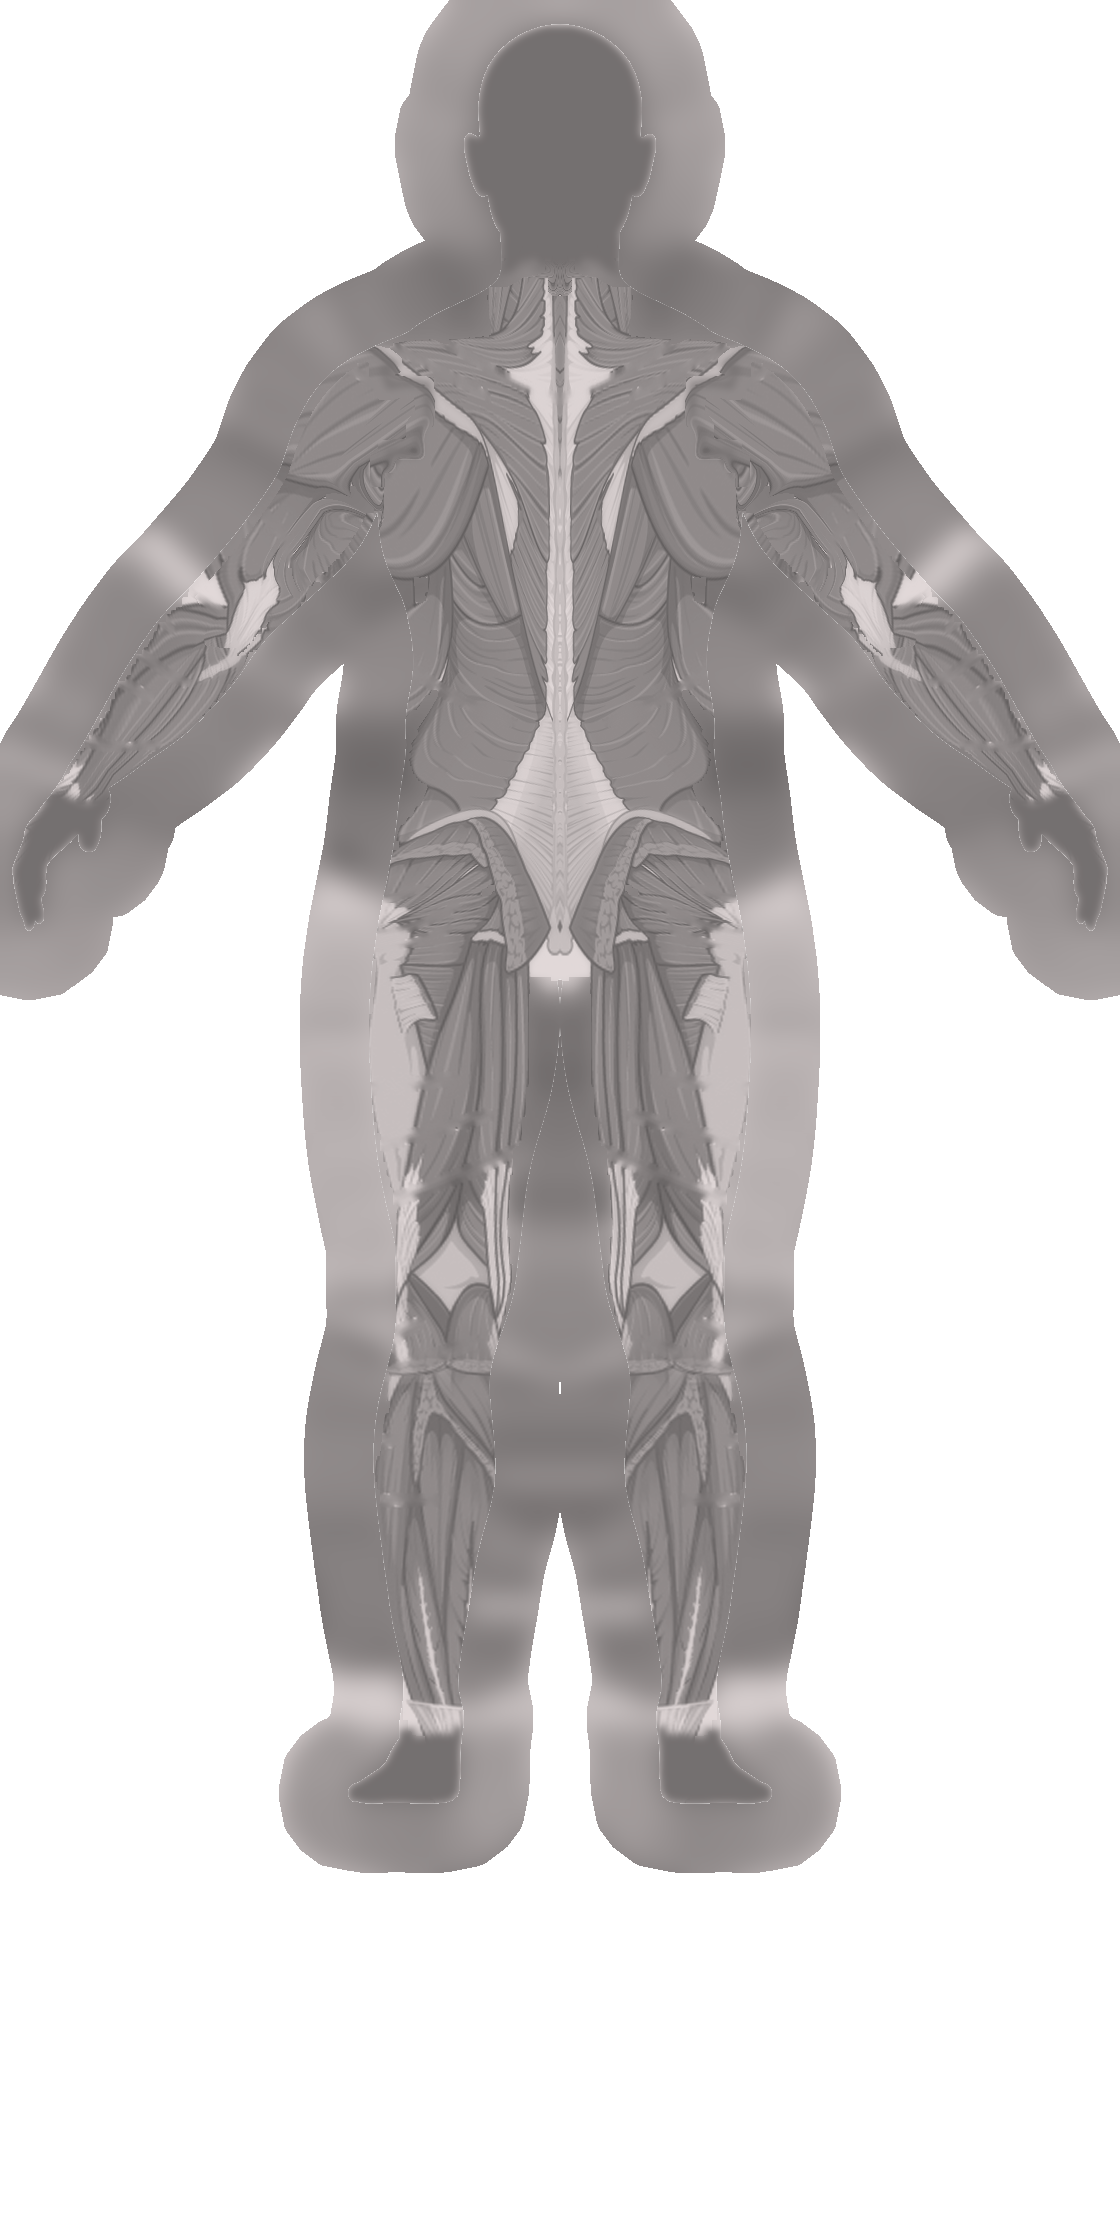
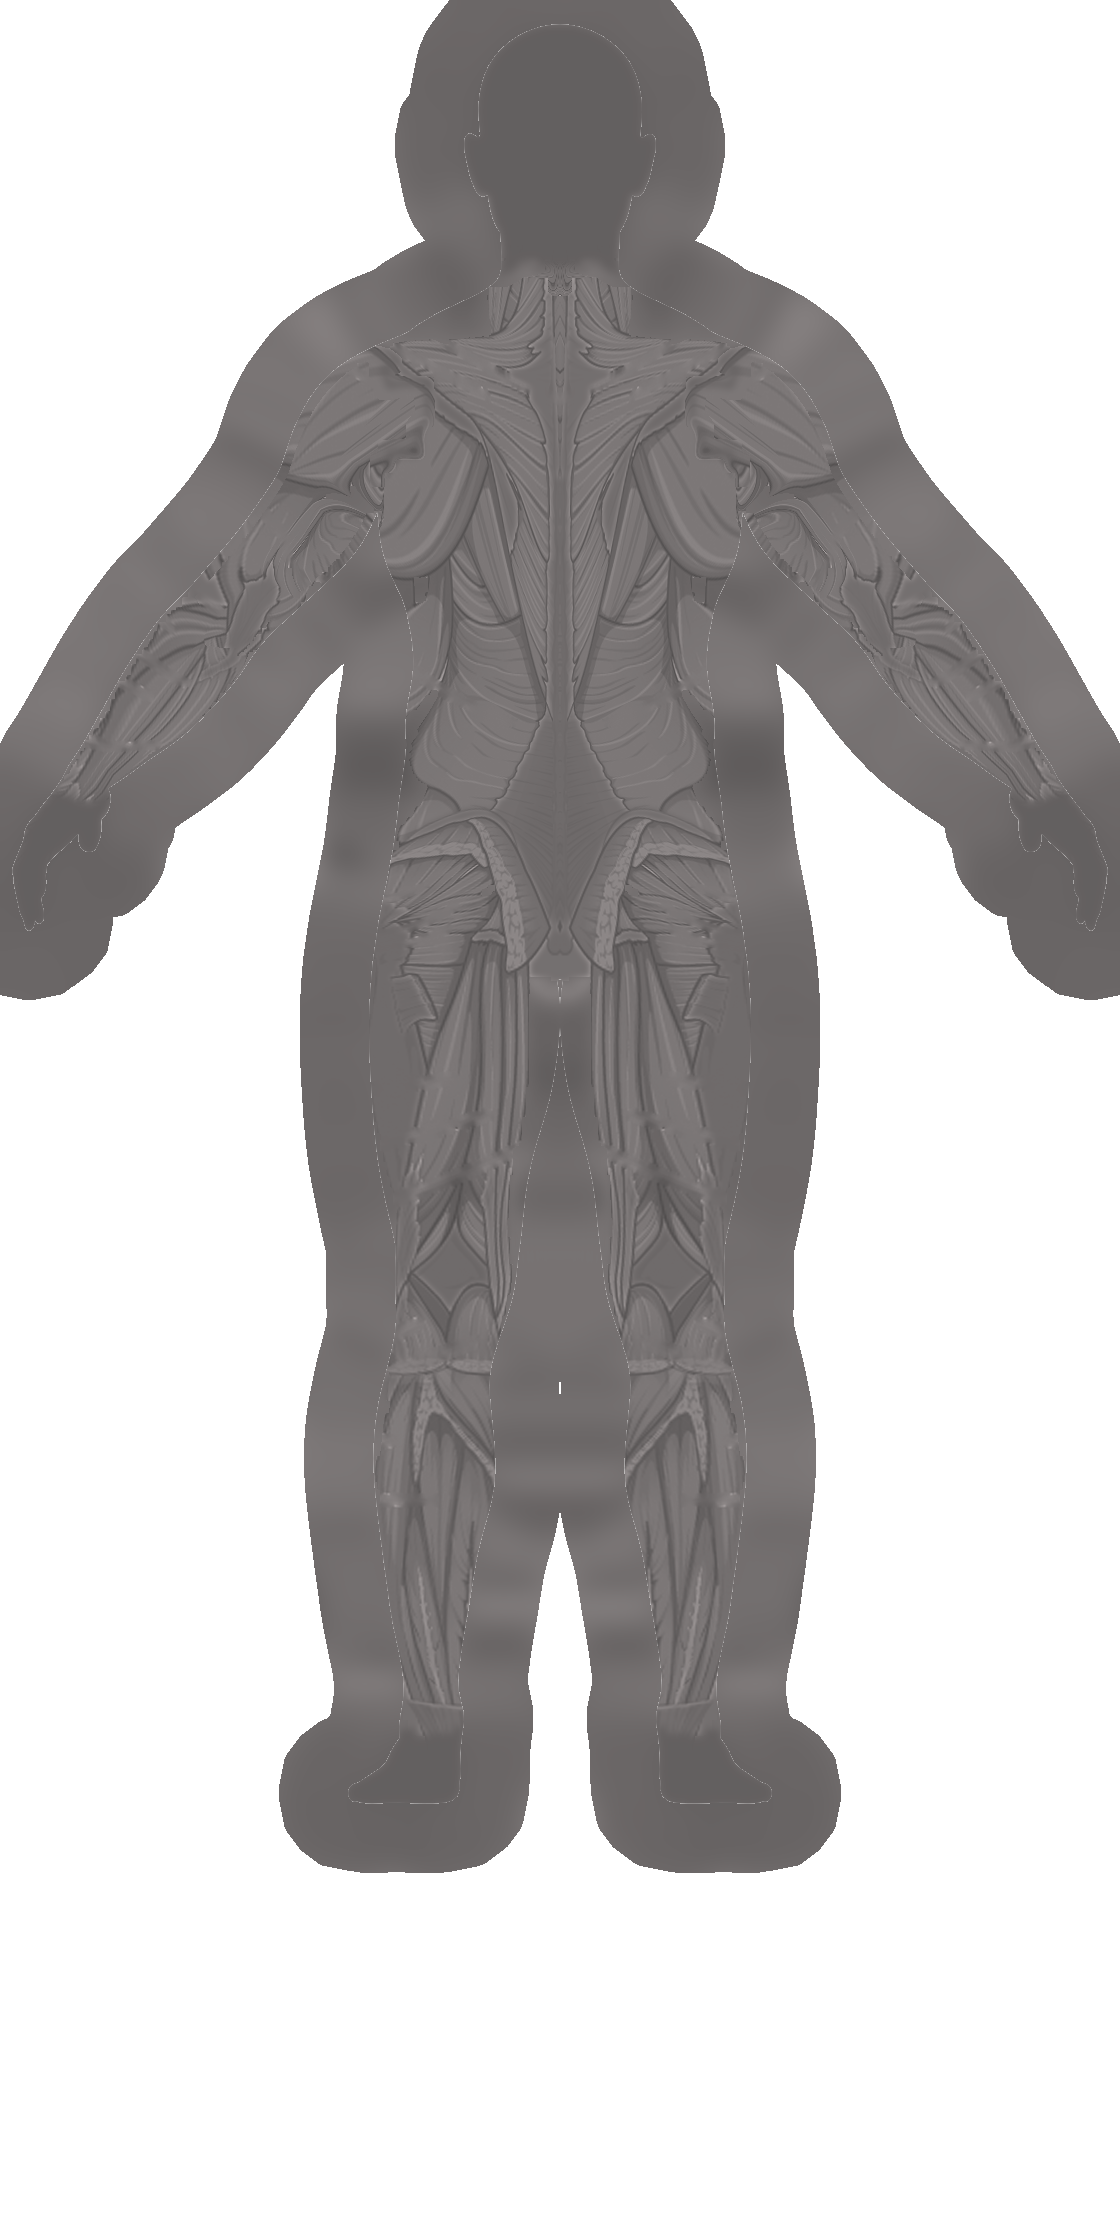
3D body: finished look — relief, quiet rested muscles, studio light
- Muscles have real relief: the fibre shading is bump-mapped through
  screen-space derivatives, with a satin sheen, so the figure reads as
  sculpted instead of a printed decal.
- Rested ("fresh") muscles are a quiet wash, not a pink suit; recovering,
  working and selected muscles stand out against them.
- Graphite base: muscle a mid grey with its fibres, tendons and fascia a
  quieter grey (bright white tendons fought every highlight).
- Studio lighting (key, fill, two rims) and a soft pool of light under the
  feet, camera a touch above; the figure stands instead of floating.

diff --git a/GymTracker/BodyDiagramView.swift b/GymTracker/BodyDiagramView.swift
@@ -485,7 +485,9 @@ struct BodyFigureView: View {
     /// What colours each muscle gets, in drawing order (later wins).
     private var palette: [MuscleID: BodyTint] {
         var p: [MuscleID: BodyTint] = [:]
-        for id in recoveryIDs(.fresh) { p[id] = BodyTint(color: Self.freshColor, strength: 1) }
+        // Fresh (recovered) is a quiet wash: the body isn't a pink suit on a
+        // rest day, and recovering / working muscles stand out against it.
+        for id in recoveryIDs(.fresh) { p[id] = BodyTint(color: Self.freshColor, strength: 0.32) }
         for id in recoveryIDs(.recovering) { p[id] = BodyTint(color: Self.recoveringColor, strength: 1) }
         for id in injuredOnly { p[id] = BodyTint(color: Self.litGlow, strength: 1) }
         let lit = litColor ?? Self.litGlow
@@ -1472,12 +1474,23 @@ final class BodyModel {
     texture2d<float> bodyShade;
     texture2d<float> bodyPalette;
     #pragma body
-    // The four area texels around this point, each looked up in the
-    // palette and blended like a linear filter: smooth edges on every lit
-    // muscle instead of texel steps (a plain nearest lookup was jagged).
     constexpr sampler gatherS(filter::nearest, address::clamp_to_edge);
     constexpr sampler linearS(filter::linear, mip_filter::linear, address::clamp_to_edge);
     float2 uv = _surface.diffuseTexcoord;
+    float shade = bodyShade.sample(linearS, uv).r;
+    // Relief: the fibre shading used as a height, bump-mapped through
+    // screen-space derivatives (no tangents needed). Muscles get grooves
+    // between fibres and catch the light like a sculpted figure.
+    float3 n = normalize(_surface.normal);
+    float3 dpdx = dfdx(_surface.position), dpdy = dfdy(_surface.position);
+    float dhdx = dfdx(shade), dhdy = dfdy(shade);
+    float3 r1 = cross(dpdy, n), r2 = cross(n, dpdx);
+    float det = dot(dpdx, r1);
+    float3 grad = sign(det) * (dhdx * r1 + dhdy * r2);
+    float bump = 0.010;
+    _surface.normal = normalize(abs(det) * n - bump * grad);
+    // The four area texels around this point, each looked up in the
+    // palette and blended like a linear filter: smooth edges.
     float2 size = float2(bodyIDs.get_width(), bodyIDs.get_height());
     float2 f = fract(uv * size - 0.5);
     float4 ids = bodyIDs.gather(gatherS, uv) * 255.0;
@@ -1491,14 +1504,13 @@ final class BodyModel {
         a += t.a * w[k];
     }
     if (a > 0.002) {
-        float3 tint = rgb / a;
-        float shade = bodyShade.sample(linearS, uv).r;
-        // Squared shade: the fibres and the lines between muscles stay
-        // visible instead of one flat block of colour.
-        float3 lit = tint * (0.08 + 1.05 * shade * shade);
+        float3 tint = rgb / max(a, 0.001);
+        // The colour keeps the muscle's own light and dark (fibres stay
+        // visible), deeper in the grooves.
+        float3 lit = tint * (0.18 + 0.9 * shade);
         _surface.diffuse.rgb = mix(_surface.diffuse.rgb, lit, a);
-        // The accent's glow: bright enough for the camera's bloom.
-        _surface.emission.rgb += lit * 0.4 * a;
+        // A gentle inner glow, only on strongly lit muscles.
+        _surface.emission.rgb += lit * 0.22 * a * a;
     }
     """
 }
@@ -1550,7 +1562,10 @@ final class BodySceneView: SCNView, UIGestureRecognizerDelegate {
 
         if let geometry = model.geometry?.copy() as? SCNGeometry {
             let m = SCNMaterial()
-            m.lightingModel = .lambert
+            // A soft satin sheen: reads as a sculpted figure, not a decal.
+            m.lightingModel = .blinn
+            m.specular.contents = UIColor(white: 0.22, alpha: 1)
+            m.shininess = 0.22
             m.diffuse.contents = model.colorTexture
             m.diffuse.mipFilter = .linear
             m.shaderModifiers = [.surface: BodyModel.shader]
@@ -1581,9 +1596,28 @@ final class BodySceneView: SCNView, UIGestureRecognizerDelegate {
             let n = SCNNode(); n.light = l; n.eulerAngles = euler
             scene.rootNode.addChildNode(n)
         }
-        light(.ambient, 380, SCNVector3Zero)
-        light(.directional, 900, SCNVector3(-0.35, 0.45, 0))      // key, above right
-        light(.directional, 650, SCNVector3(0.1, .pi + 0.5, 0))  // rim from behind: the outline holds on black
+        // Studio lighting: key above right, cool fill left, two rims from
+        // behind so the silhouette holds on black.
+        light(.ambient, 260, SCNVector3Zero)
+        light(.directional, 950, SCNVector3(-0.45, 0.5, 0))
+        light(.directional, 300, SCNVector3(-0.1, -0.6, 0))
+        light(.directional, 700, SCNVector3(0.15, .pi + 0.7, 0))
+        light(.directional, 700, SCNVector3(0.15, .pi - 0.7, 0))
+
+        // A soft pool of light on the floor under the feet: the figure
+        // stands somewhere instead of floating on black.
+        let floor = SCNPlane(width: 1.1, height: 0.42)
+        let fm = SCNMaterial()
+        fm.lightingModel = .constant
+        fm.diffuse.contents = Self.floorGlow
+        fm.writesToDepthBuffer = false
+        fm.isDoubleSided = true
+        floor.materials = [fm]
+        let floorNode = SCNNode(geometry: floor)
+        floorNode.eulerAngles.x = -.pi / 2
+        floorNode.position = SCNVector3(0, -1.0, 0.02)
+        floorNode.renderingOrder = -1
+        scene.rootNode.addChildNode(floorNode)
 
         let pan = UIPanGestureRecognizer(target: self, action: #selector(panned(_:)))
         pan.delegate = self
@@ -1593,6 +1627,18 @@ final class BodySceneView: SCNView, UIGestureRecognizerDelegate {
 
     required init?(coder: NSCoder) { fatalError("init(coder:) has not been implemented") }
 
+    /// Radial glow for the floor: white at the centre fading to nothing.
+    private static let floorGlow: UIImage = {
+        let size = CGSize(width: 256, height: 256)
+        return UIGraphicsImageRenderer(size: size).image { ctx in
+            let colors = [UIColor(white: 1, alpha: 0.13).cgColor, UIColor(white: 1, alpha: 0.035).cgColor,
+                          UIColor(white: 1, alpha: 0).cgColor] as CFArray
+            let g = CGGradient(colorsSpace: CGColorSpaceCreateDeviceRGB(), colors: colors, locations: [0, 0.45, 1])!
+            ctx.cgContext.drawRadialGradient(g, startCenter: CGPoint(x: 128, y: 128), startRadius: 0,
+                                             endCenter: CGPoint(x: 128, y: 128), endRadius: 128, options: [])
+        }
+    }()
+
     /// Whole body in view, arms included, at any width.
     override func layoutSubviews() {
         super.layoutSubviews()
@@ -1600,7 +1646,9 @@ final class BodySceneView: SCNView, UIGestureRecognizerDelegate {
         let aspect = Float(bounds.width / bounds.height)
         let halfHeight = max(1.06, 0.68 / aspect)
         let distance = halfHeight / tan(Float(9) * .pi / 180)
-        cameraNode.position = SCNVector3(0, 0, distance)
+        // A touch above, looking slightly down: the floor reads as a floor.
+        cameraNode.position = SCNVector3(0, distance * 0.06, distance)
+        cameraNode.look(at: SCNVector3(0, -0.04, 0))
     }
 
     func setPalette(_ palette: [MuscleID: BodyTint]) {

diff --git a/design/body-source/figure/bougle_fit.py b/design/body-source/figure/bougle_fit.py
@@ -445,7 +445,9 @@ def finish(col, side):
     # Muscle tissue: red (a* well above the plate's tendons and paper),
     # read over a few px so fibre lines don't count as gaps.
     red = cv2.GaussianBlur(np.clip((lab[..., 1] - 132) / 12, 0, 1), (0, 0), 3)
-    g = np.clip(0.20 + 0.55 * L ** 1.3 + 0.10 * (1 - red), 0, 1)
+    # Graphite figure: muscle a mid grey with its fibres, tendons and fascia
+    # a quieter grey (bright white tendons fought every highlight).
+    g = np.clip(red * (0.18 + 0.48 * L ** 1.4) + (1 - red) * (0.30 + 0.14 * L), 0, 1)
     grey = g * 255
     pl = part_is(side, 'head', 'hand', 'foot').astype(np.uint8)
     if side == "front":
@@ -454,7 +456,7 @@ def finish(col, side):
         cy = int((cj["crotch"][1] * S + (cj["notch"][1] + 0.83 * (cj["crotch"][1] - cj["notch"][1])) * S) / 2)
         cv2.ellipse(pl, (CW // 2, cy), (62, 70), 0, 0, 360, 1, -1)
     plain = cv2.GaussianBlur(pl.astype(np.float32), (0, 0), 4)
-    an = plain * 112 + (1 - plain) * grey
+    an = plain * 96 + (1 - plain) * grey
     anat = np.dstack([an, an, an * 1.04, alpha]).clip(0, 255).astype(np.uint8)
     clahe = cv2.createCLAHE(clipLimit=3.0, tileGridSize=(24, 48))
     sh = clahe.apply((L * 255).astype(np.uint8)).astype(np.float32) / 255.0
